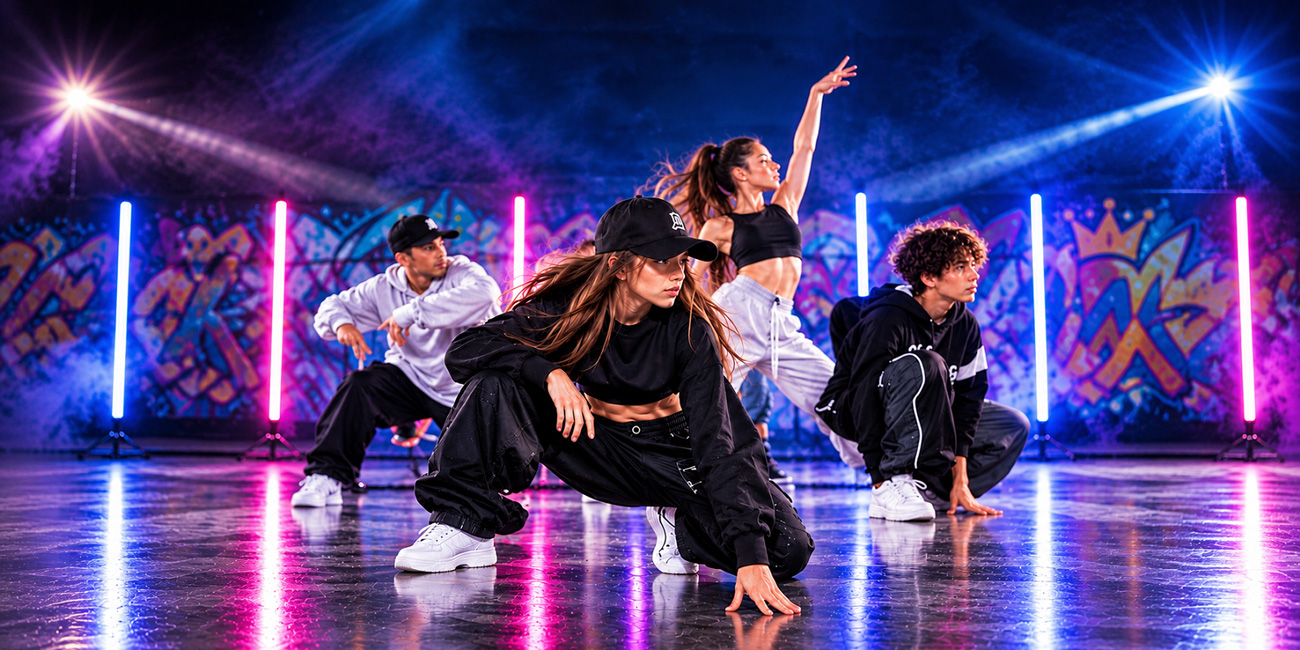
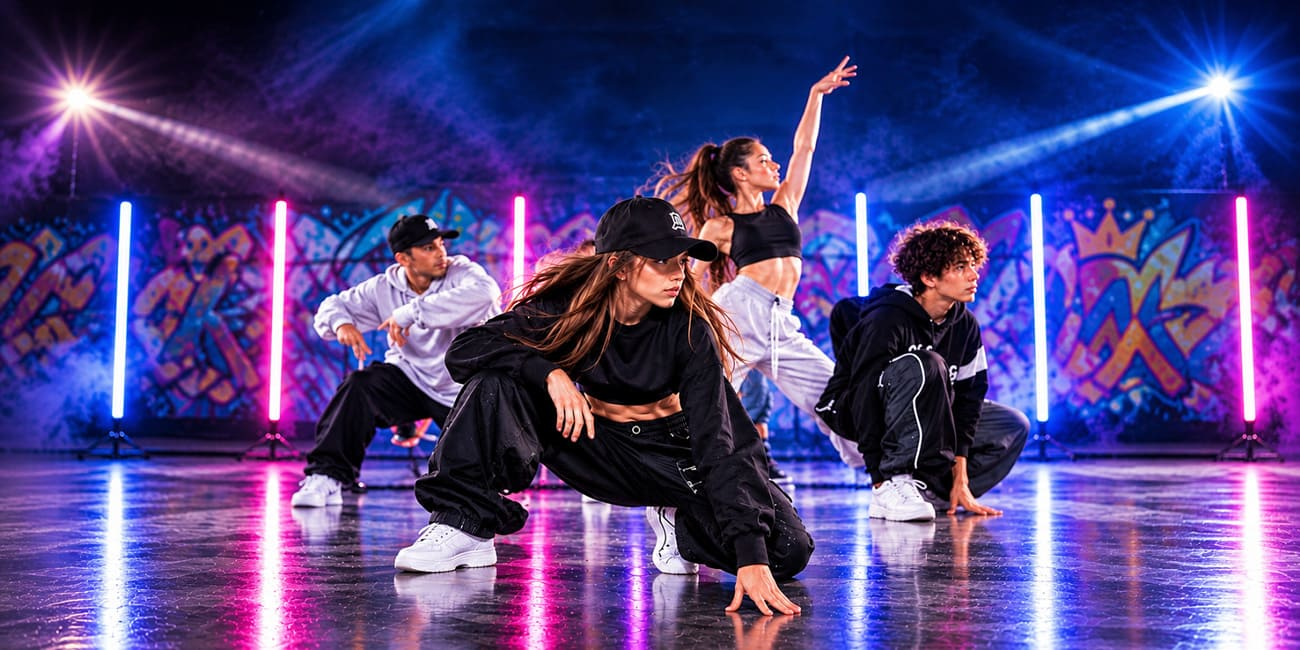
Eliminamos DANZA CLASICA y reducimos imágenes

diff --git a/src/app/app.routes.ts b/src/app/app.routes.ts
@@ -9,7 +9,6 @@ import { Competicion } from './pages/competicion/competicion';
 // Categorías de baile
 import { BalletJunior } from './pages/ballet-junior/ballet-junior';
 import { BalletAdultos } from './pages/ballet-adultos/ballet-adultos';
-import { Danzaclasica } from './pages/danzaclasica/danzaclasica';
 import { Danzaurbana } from './pages/danzaurbana/danzaurbana';
 import { Barre } from './pages/barre/barre';
 import { Bodytonic } from './pages/bodytonic/bodytonic';
@@ -28,7 +27,6 @@ export const routes: Routes = [
   // Categorías de baile
   { path: 'ballet-junior', component: BalletJunior },
   { path: 'ballet-adultos', component: BalletAdultos },
-  { path: 'danzaclasica', component: Danzaclasica },
   { path: 'danzaurbana', component: Danzaurbana },
   { path: 'barre', component: Barre },
   { path: 'bodytonic', component: Bodytonic},
